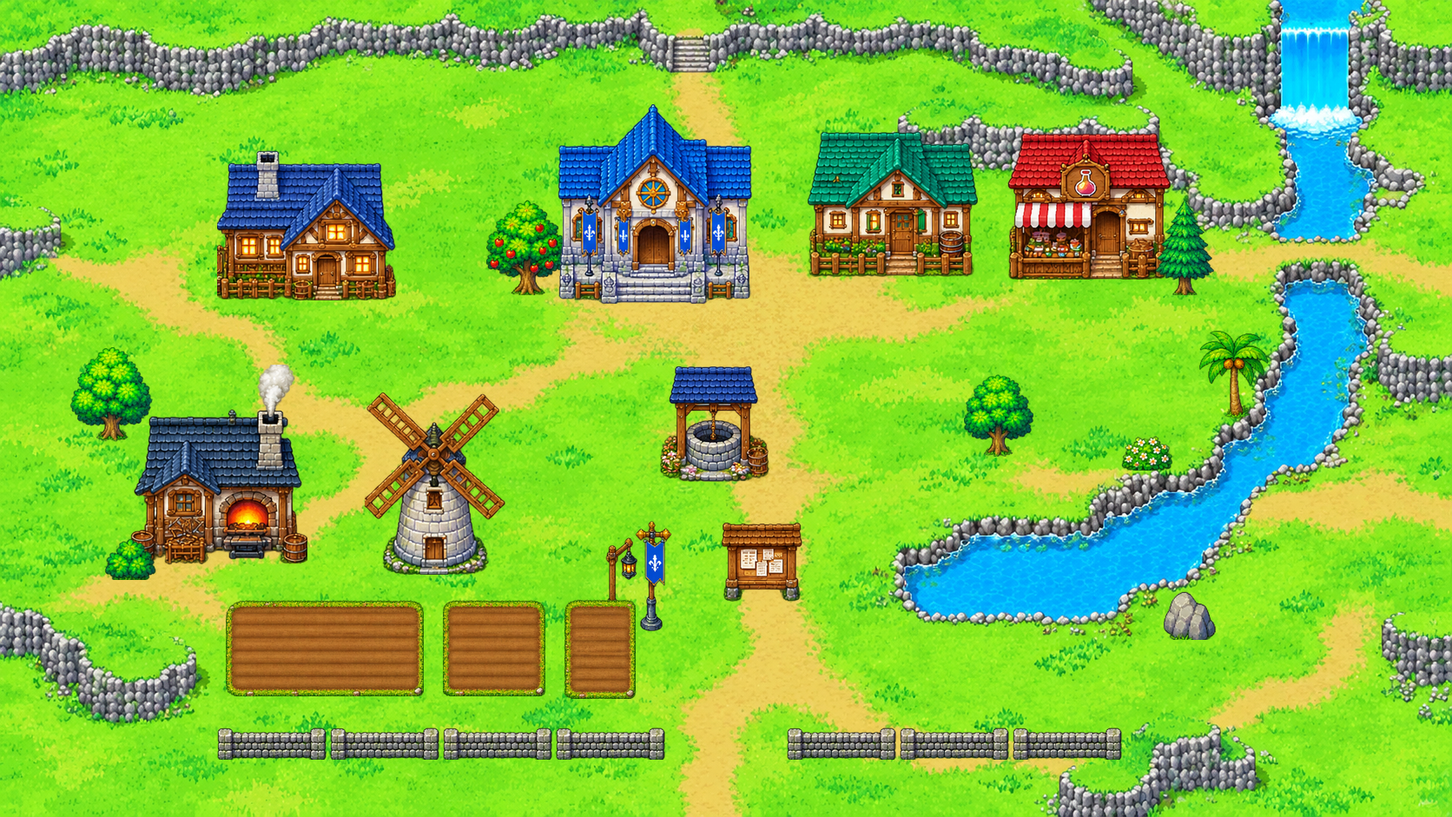
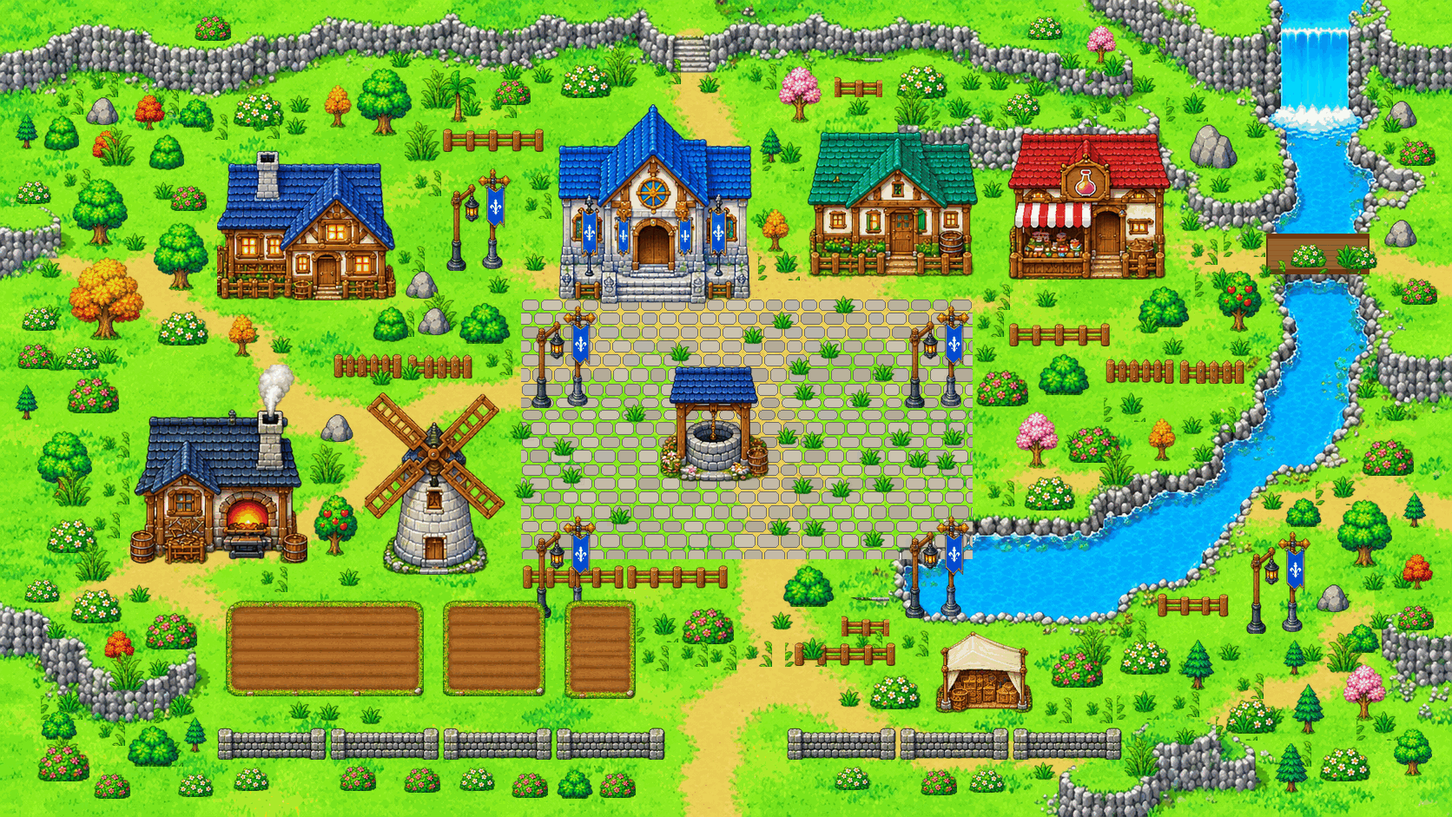
update »

diff --git a/data.py b/data.py
@@ -135,7 +135,7 @@ MONSTERS = [
 BOSS_NEAR, BOSS_FAR = 'Raja Slime', 'Vampir'
 
 # v1.4: desa dibangun ulang (dari aset tanah, bangunan, pohon & lahan). Dibuat otomatis oleh gen_town.py.
-TOWN = {'cell': 8, 'cw': 210, 'ch': 118, 'W': 1672, 'H': 941, 'rows': [[0, 0, 208], [1, 0, 208], [2, 0, 1], [2, 47, 48], [2, 63, 65], [2, 77, 81], [2, 87, 93], [2, 107, 107], [2, 116, 118], [2, 129, 130], [2, 159, 172], [2, 183, 199], [2, 207, 208], [3, 0, 1], [3, 11, 15], [3, 45, 58], [3, 61, 68], [3, 76, 93], [3, 105, 120], [3, 127, 133], [3, 135, 135], [3, 137, 138], [3, 162, 172], [3, 182, 199], [3, 207, 208], [4, 0, 1], [4, 9, 21], [4, 44, 95], [4, 102, 140], [4, 162, 174], [4, 180, 200], [4, 207, 208], [5, 0, 1], [5, 7, 21], [5, 35, 140], [5, 164, 200], [5, 207, 208], [6, 0, 1], [6, 6, 23], [6, 25, 25], [6, 27, 27], [6, 33, 88], [6, 91, 141], [6, 144, 145], [6, 164, 208], [7, 0, 81], [7, 92, 106], [7, 108, 129], [7, 131, 131], [7, 134, 152], [7, 166, 208], [8, 0, 45], [8, 52, 52], [8, 59, 59], [8, 63, 67], [8, 69, 79], [8, 90, 104], [8, 109, 112], [8, 115, 116], [8, 137, 153], [8, 162, 162], [8, 168, 208], [9, 0, 44], [9, 67, 76], [9, 91, 91], [9, 94, 104], [9, 140, 155], [9, 161, 162], [9, 169, 208], [10, 0, 9], [10, 11, 11], [10, 15, 16], [10, 18, 39], [10, 42, 43], [10, 71, 71], [10, 96, 102], [10, 141, 162], [10, 171, 208], [11, 0, 9], [11, 18, 19], [11, 21, 39], [11, 147, 162], [11, 172, 196], [11, 199, 208], [12, 0, 5], [12, 20, 34], [12, 37, 37], [12, 152, 163], [12, 172, 196], [12, 200, 208], [13, 0, 1], [13, 4, 5], [13, 7, 7], [13, 27, 31], [13, 152, 162], [13, 176, 177], [13, 180, 196], [13, 204, 204], [13, 207, 208], [14, 0, 1], [14, 161, 161], [14, 178, 197], [14, 207, 208], [15, 0, 1], [15, 164, 164], [15, 180, 198], [15, 207, 208], [16, 0, 1], [16, 129, 130], [16, 139, 140], [16, 164, 166], [16, 180, 189], [16, 191, 192], [16, 194, 198], [16, 207, 208], [17, 0, 1], [17, 129, 130], [17, 138, 141], [17, 155, 158], [17, 165, 166], [17, 181, 197], [17, 207, 208], [18, 0, 1], [18, 129, 149], [18, 151, 159], [18, 161, 166], [18, 182, 196], [18, 207, 208], [19, 0, 1], [19, 128, 166], [19, 184, 195], [19, 207, 208], [20, 0, 1], [20, 127, 127], [20, 130, 166], [20, 184, 195], [20, 207, 208], [21, 0, 1], [21, 129, 129], [21, 131, 168], [21, 184, 197], [21, 207, 208], [22, 0, 1], [22, 137, 151], [22, 155, 168], [22, 184, 199], [22, 207, 208], [23, 0, 1], [23, 137, 148], [23, 155, 168], [23, 184, 200], [23, 207, 208], [24, 0, 1], [24, 140, 146], [24, 165, 170], [24, 184, 204], [24, 207, 208], [25, 0, 1], [25, 167, 172], [25, 185, 204], [25, 207, 208], [26, 0, 1], [26, 167, 171], [26, 185, 204], [26, 207, 208], [27, 0, 1], [27, 167, 167], [27, 169, 169], [27, 171, 172], [27, 182, 203], [27, 207, 208], [28, 0, 1], [28, 171, 175], [28, 181, 203], [28, 207, 208], [29, 0, 1], [29, 117, 139], [29, 146, 166], [29, 170, 202], [29, 207, 208], [30, 0, 1], [30, 6, 6], [30, 81, 106], [30, 117, 139], [30, 146, 166], [30, 171, 198], [30, 207, 208], [31, 0, 1], [31, 8, 8], [31, 81, 106], [31, 117, 139], [31, 146, 166], [31, 172, 198], [31, 207, 208], [32, 0, 1], [32, 6, 8], [32, 32, 55], [32, 81, 106], [32, 117, 139], [32, 146, 166], [32, 172, 197], [32, 207, 208], [33, 0, 8], [33, 32, 55], [33, 81, 106], [33, 117, 139], [33, 146, 166], [33, 179, 179], [33, 181, 196], [33, 207, 208], [34, 0, 8], [34, 32, 55], [34, 81, 106], [34, 117, 139], [34, 146, 166], [34, 183, 195], [34, 207, 208], [35, 0, 8], [35, 32, 55], [35, 81, 106], [35, 117, 139], [35, 146, 166], [35, 207, 208], [36, 0, 8], [36, 32, 55], [36, 81, 106], [36, 117, 139], [36, 146, 166], [36, 207, 208], [37, 0, 5], [37, 7, 7], [37, 32, 55], [37, 81, 106], [37, 117, 139], [37, 146, 166], [37, 186, 192], [37, 207, 208], [38, 0, 3], [38, 5, 6], [38, 32, 55], [38, 81, 106], [38, 117, 139], [38, 146, 166], [38, 184, 195], [38, 207, 208], [39, 0, 1], [39, 32, 55], [39, 81, 106], [39, 117, 139], [39, 146, 166], [39, 183, 195], [39, 207, 208], [40, 0, 1], [40, 32, 55], [40, 74, 77], [40, 81, 106], [40, 117, 126], [40, 132, 139], [40, 146, 156], [40, 161, 166], [40, 169, 171], [40, 183, 196], [40, 207, 208], [41, 0, 1], [41, 32, 55], [41, 74, 77], [41, 81, 106], [41, 169, 171], [41, 183, 196], [41, 207, 208], [42, 0, 1], [42, 32, 55], [42, 74, 77], [42, 81, 106], [42, 169, 171], [42, 183, 197], [42, 207, 208], [43, 0, 1], [43, 32, 44], [43, 50, 55], [43, 81, 106], [43, 183, 198], [43, 207, 208], [44, 0, 1], [44, 184, 198], [44, 207, 208], [45, 0, 1], [45, 184, 199], [45, 207, 208], [46, 0, 1], [46, 184, 198], [46, 207, 208], [47, 0, 1], [47, 184, 201], [47, 207, 208], [48, 0, 1], [48, 185, 200], [48, 207, 208], [49, 0, 1], [49, 184, 199], [49, 207, 208], [50, 0, 1], [50, 183, 200], [50, 207, 208], [51, 0, 1], [51, 183, 208], [52, 0, 1], [52, 182, 195], [52, 197, 208], [53, 0, 1], [53, 182, 196], [53, 198, 208], [54, 0, 1], [54, 181, 195], [54, 198, 208], [55, 0, 1], [55, 180, 195], [55, 198, 208], [56, 0, 1], [56, 180, 195], [56, 199, 208], [57, 0, 1], [57, 180, 195], [57, 201, 208], [58, 0, 1], [58, 176, 196], [58, 200, 201], [58, 207, 208], [59, 0, 1], [59, 176, 196], [59, 207, 208], [60, 0, 1], [60, 97, 108], [60, 176, 195], [60, 207, 208], [61, 0, 1], [61, 14, 17], [61, 97, 108], [61, 175, 195], [61, 207, 208], [62, 0, 1], [62, 14, 17], [62, 97, 108], [62, 175, 193], [62, 195, 195], [62, 207, 208], [63, 0, 1], [63, 14, 17], [63, 97, 108], [63, 142, 144], [63, 174, 192], [63, 207, 208], [64, 0, 1], [64, 97, 108], [64, 142, 144], [64, 174, 192], [64, 207, 208], [65, 0, 1], [65, 97, 108], [65, 142, 144], [65, 161, 169], [65, 174, 192], [65, 207, 208], [66, 0, 1], [66, 97, 108], [66, 161, 169], [66, 173, 193], [66, 207, 208], [67, 0, 1], [67, 20, 42], [67, 97, 108], [67, 161, 169], [67, 171, 189], [67, 191, 191], [67, 207, 208], [68, 0, 1], [68, 20, 42], [68, 97, 108], [68, 161, 185], [68, 207, 208], [69, 0, 1], [69, 20, 42], [69, 97, 108], [69, 161, 183], [69, 207, 208], [70, 0, 1], [70, 20, 42], [70, 53, 71], [70, 159, 182], [70, 207, 208], [71, 0, 1], [71, 20, 42], [71, 53, 71], [71, 157, 180], [71, 207, 208], [72, 0, 1], [72, 20, 42], [72, 53, 71], [72, 157, 180], [72, 207, 208], [73, 0, 1], [73, 20, 42], [73, 53, 71], [73, 157, 179], [73, 207, 208], [74, 0, 1], [74, 20, 42], [74, 53, 71], [74, 136, 136], [74, 139, 139], [74, 141, 147], [74, 149, 152], [74, 156, 179], [74, 207, 208], [75, 0, 1], [75, 20, 42], [75, 53, 71], [75, 136, 179], [75, 207, 208], [76, 0, 1], [76, 20, 42], [76, 53, 71], [76, 137, 178], [76, 207, 208], [77, 0, 1], [77, 20, 42], [77, 53, 71], [77, 134, 177], [77, 207, 208], [78, 0, 1], [78, 20, 42], [78, 53, 71], [78, 133, 176], [78, 207, 208], [79, 0, 1], [79, 20, 42], [79, 53, 71], [79, 129, 175], [79, 207, 208], [80, 0, 1], [80, 15, 42], [80, 53, 71], [80, 105, 113], [80, 128, 175], [80, 207, 208], [81, 0, 1], [81, 15, 23], [81, 29, 42], [81, 53, 71], [81, 105, 113], [81, 129, 174], [81, 207, 208], [82, 0, 1], [82, 15, 22], [82, 53, 71], [82, 105, 113], [82, 129, 172], [82, 174, 174], [82, 207, 208], [83, 0, 1], [83, 15, 22], [83, 105, 113], [83, 129, 172], [83, 207, 208], [84, 0, 1], [84, 105, 113], [84, 129, 170], [84, 207, 208], [85, 0, 1], [85, 105, 113], [85, 128, 163], [85, 207, 208], [86, 0, 1], [86, 105, 113], [86, 129, 162], [86, 207, 208], [87, 0, 1], [87, 3, 4], [87, 90, 92], [87, 130, 162], [87, 207, 208], [88, 0, 6], [88, 90, 92], [88, 131, 161], [88, 167, 174], [88, 207, 208], [89, 0, 7], [89, 90, 92], [89, 132, 160], [89, 167, 174], [89, 199, 200], [89, 207, 208], [90, 0, 7], [90, 90, 92], [90, 151, 151], [90, 154, 155], [90, 167, 174], [90, 199, 200], [90, 207, 208], [91, 0, 10], [91, 90, 92], [91, 167, 174], [91, 199, 208], [92, 0, 11], [92, 199, 208], [93, 0, 12], [93, 199, 208], [94, 0, 11], [94, 27, 28], [94, 199, 208], [95, 0, 1], [95, 5, 13], [95, 24, 28], [95, 200, 208], [96, 0, 1], [96, 6, 14], [96, 23, 28], [96, 200, 208], [97, 0, 1], [97, 6, 17], [97, 20, 28], [97, 200, 208], [98, 0, 1], [98, 8, 27], [98, 201, 208], [99, 0, 1], [99, 8, 27], [99, 201, 203], [99, 206, 208], [100, 0, 1], [100, 7, 26], [100, 202, 202], [100, 206, 208], [101, 0, 1], [101, 11, 24], [101, 26, 26], [101, 205, 205], [101, 207, 208], [102, 0, 1], [102, 13, 23], [102, 204, 205], [102, 207, 208], [103, 0, 1], [103, 14, 22], [103, 96, 99], [103, 110, 113], [103, 207, 208], [104, 0, 1], [104, 96, 98], [104, 111, 113], [104, 164, 164], [104, 174, 175], [104, 207, 208], [105, 0, 1], [105, 31, 98], [105, 111, 161], [105, 163, 164], [105, 174, 175], [105, 207, 208], [106, 0, 1], [106, 31, 98], [106, 111, 161], [106, 167, 167], [106, 169, 175], [106, 177, 178], [106, 207, 208], [107, 0, 1], [107, 31, 98], [107, 111, 161], [107, 166, 175], [107, 179, 180], [107, 207, 208], [108, 0, 1], [108, 31, 98], [108, 111, 161], [108, 166, 175], [108, 179, 182], [108, 207, 208], [109, 0, 1], [109, 31, 98], [109, 111, 161], [109, 165, 180], [109, 207, 208], [110, 0, 1], [110, 154, 154], [110, 165, 180], [110, 207, 208], [111, 0, 1], [111, 152, 153], [111, 165, 180], [111, 207, 208], [112, 0, 1], [112, 152, 154], [112, 164, 180], [112, 207, 208], [113, 0, 1], [113, 152, 156], [113, 162, 180], [113, 207, 208], [114, 0, 1], [114, 150, 168], [114, 207, 208], [115, 0, 208], [116, 0, 208], [117, 0, 208]], 'spawn': (800, 590), 'gate': (797, 833, 85, 52), 'gate_out': (839, 751), 'gate_over': (773, 787), 'plots': [((276, 704, 196, 84), 4, 2), ((526, 704, 86, 84), 2, 2), ((666, 704, 50, 87), 2, 2)], 'npc': {'Sir Aldric': (830, 380), 'Mira': (600, 560), 'Cale si Pedagang': (1000, 420), 'Anya': (640, 500), 'Fenn si Pemanah': (1040, 470), 'Kesatria Ines': (1000, 350), 'Madam Ruby': (930, 500), 'Penyihir Selene': (700, 450), 'Kakek Odo': (880, 636), 'Penjaga Gerbang': (840, 770), 'Putri Elara': (900, 380), 'Lars si Petani': (700, 655)}}
+TOWN = {'cell': 8, 'cw': 210, 'ch': 118, 'W': 1672, 'H': 941, 'rows': [[0, 0, 208], [1, 0, 208], [2, 0, 1], [2, 28, 33], [2, 47, 48], [2, 63, 65], [2, 77, 81], [2, 87, 93], [2, 107, 107], [2, 116, 118], [2, 129, 130], [2, 147, 153], [2, 159, 172], [2, 183, 199], [2, 207, 208], [3, 0, 1], [3, 11, 15], [3, 28, 33], [3, 45, 58], [3, 61, 68], [3, 76, 93], [3, 105, 120], [3, 127, 133], [3, 135, 135], [3, 137, 138], [3, 147, 153], [3, 156, 160], [3, 162, 172], [3, 182, 199], [3, 207, 208], [4, 0, 1], [4, 9, 21], [4, 28, 33], [4, 44, 95], [4, 102, 140], [4, 147, 153], [4, 156, 160], [4, 162, 174], [4, 180, 200], [4, 207, 208], [5, 0, 1], [5, 7, 21], [5, 28, 33], [5, 35, 140], [5, 147, 153], [5, 156, 160], [5, 164, 200], [5, 207, 208], [6, 0, 1], [6, 6, 23], [6, 25, 25], [6, 27, 27], [6, 33, 88], [6, 91, 141], [6, 144, 145], [6, 156, 160], [6, 164, 208], [7, 0, 81], [7, 92, 106], [7, 108, 129], [7, 131, 131], [7, 134, 152], [7, 156, 160], [7, 166, 208], [8, 0, 45], [8, 52, 52], [8, 59, 59], [8, 63, 67], [8, 69, 88], [8, 90, 104], [8, 109, 112], [8, 115, 116], [8, 120, 126], [8, 137, 153], [8, 156, 160], [8, 162, 162], [8, 168, 208], [9, 0, 44], [9, 51, 59], [9, 67, 76], [9, 80, 88], [9, 91, 91], [9, 94, 104], [9, 111, 118], [9, 120, 126], [9, 128, 136], [9, 140, 162], [9, 169, 208], [10, 0, 9], [10, 11, 11], [10, 15, 16], [10, 18, 39], [10, 42, 43], [10, 51, 59], [10, 63, 68], [10, 71, 71], [10, 80, 88], [10, 96, 102], [10, 111, 118], [10, 120, 126], [10, 128, 136], [10, 141, 162], [10, 171, 208], [11, 0, 9], [11, 18, 19], [11, 21, 39], [11, 51, 59], [11, 63, 68], [11, 71, 76], [11, 80, 88], [11, 111, 118], [11, 120, 126], [11, 128, 136], [11, 147, 162], [11, 172, 196], [11, 199, 208], [12, 0, 5], [12, 20, 34], [12, 37, 37], [12, 46, 59], [12, 63, 68], [12, 71, 76], [12, 80, 88], [12, 111, 118], [12, 120, 126], [12, 128, 136], [12, 152, 163], [12, 172, 196], [12, 200, 208], [13, 0, 1], [13, 4, 5], [13, 7, 7], [13, 12, 17], [13, 19, 23], [13, 27, 31], [13, 33, 41], [13, 46, 59], [13, 63, 68], [13, 71, 76], [13, 80, 88], [13, 111, 118], [13, 120, 126], [13, 128, 136], [13, 144, 149], [13, 152, 162], [13, 176, 177], [13, 180, 196], [13, 204, 204], [13, 207, 208], [14, 0, 1], [14, 12, 17], [14, 19, 23], [14, 25, 30], [14, 33, 41], [14, 46, 59], [14, 63, 68], [14, 71, 76], [14, 80, 88], [14, 111, 118], [14, 128, 136], [14, 144, 149], [14, 161, 161], [14, 178, 197], [14, 199, 203], [14, 207, 208], [15, 0, 1], [15, 12, 17], [15, 19, 23], [15, 25, 30], [15, 33, 41], [15, 46, 59], [15, 63, 68], [15, 71, 76], [15, 80, 108], [15, 111, 118], [15, 144, 149], [15, 164, 164], [15, 180, 203], [15, 207, 208], [16, 0, 17], [16, 19, 23], [16, 25, 30], [16, 33, 41], [16, 46, 59], [16, 63, 68], [16, 80, 108], [16, 111, 118], [16, 129, 130], [16, 139, 140], [16, 144, 149], [16, 164, 166], [16, 180, 189], [16, 191, 192], [16, 194, 203], [16, 207, 208], [17, 0, 17], [17, 19, 23], [17, 25, 30], [17, 33, 41], [17, 46, 59], [17, 63, 68], [17, 80, 108], [17, 111, 118], [17, 129, 130], [17, 138, 141], [17, 155, 158], [17, 165, 166], [17, 171, 178], [17, 181, 197], [17, 199, 203], [17, 207, 208], [18, 0, 11], [18, 13, 17], [18, 19, 23], [18, 25, 30], [18, 33, 41], [18, 46, 59], [18, 63, 78], [18, 80, 112], [18, 116, 168], [18, 171, 178], [18, 182, 196], [18, 199, 203], [18, 207, 208], [19, 0, 11], [19, 13, 17], [19, 21, 26], [19, 51, 59], [19, 63, 78], [19, 80, 112], [19, 116, 168], [19, 171, 178], [19, 184, 195], [19, 207, 208], [20, 0, 11], [20, 13, 17], [20, 21, 26], [20, 63, 78], [20, 80, 112], [20, 116, 168], [20, 171, 178], [20, 184, 195], [20, 201, 208], [21, 0, 11], [21, 13, 17], [21, 21, 26], [21, 31, 56], [21, 63, 78], [21, 80, 112], [21, 116, 168], [21, 171, 178], [21, 184, 197], [21, 201, 208], [22, 0, 1], [22, 13, 17], [22, 21, 26], [22, 31, 56], [22, 80, 112], [22, 116, 168], [22, 171, 178], [22, 184, 199], [22, 201, 208], [23, 0, 1], [23, 13, 17], [23, 21, 26], [23, 31, 56], [23, 80, 112], [23, 116, 168], [23, 171, 178], [23, 184, 208], [24, 0, 1], [24, 21, 26], [24, 31, 56], [24, 64, 73], [24, 80, 108], [24, 116, 178], [24, 184, 204], [24, 207, 208], [25, 0, 7], [25, 10, 18], [25, 31, 56], [25, 64, 73], [25, 80, 108], [25, 116, 140], [25, 145, 172], [25, 185, 204], [25, 207, 208], [26, 0, 7], [26, 10, 18], [26, 24, 29], [26, 31, 56], [26, 64, 73], [26, 80, 108], [26, 116, 140], [26, 145, 171], [26, 185, 204], [26, 207, 208], [27, 0, 7], [27, 10, 18], [27, 24, 29], [27, 31, 56], [27, 64, 73], [27, 80, 108], [27, 116, 140], [27, 145, 169], [27, 171, 172], [27, 182, 203], [27, 207, 208], [28, 0, 7], [28, 10, 18], [28, 24, 29], [28, 31, 56], [28, 64, 73], [28, 80, 108], [28, 116, 140], [28, 145, 168], [28, 171, 175], [28, 181, 203], [28, 207, 208], [29, 0, 7], [29, 10, 18], [29, 24, 29], [29, 31, 56], [29, 64, 73], [29, 80, 108], [29, 116, 140], [29, 145, 168], [29, 170, 202], [29, 207, 208], [30, 0, 1], [30, 6, 6], [30, 10, 18], [30, 24, 29], [30, 31, 56], [30, 64, 73], [30, 80, 113], [30, 116, 140], [30, 145, 168], [30, 171, 198], [30, 207, 208], [31, 0, 1], [31, 8, 8], [31, 10, 18], [31, 22, 29], [31, 31, 56], [31, 64, 73], [31, 80, 113], [31, 116, 140], [31, 145, 168], [31, 172, 203], [31, 207, 208], [32, 0, 1], [32, 6, 8], [32, 10, 18], [32, 22, 29], [32, 31, 56], [32, 64, 73], [32, 80, 113], [32, 116, 140], [32, 145, 168], [32, 172, 197], [32, 199, 203], [32, 207, 208], [33, 0, 8], [33, 10, 18], [33, 22, 29], [33, 31, 56], [33, 64, 73], [33, 80, 113], [33, 116, 140], [33, 145, 168], [33, 179, 179], [33, 181, 196], [33, 199, 203], [33, 207, 208], [34, 0, 8], [34, 10, 18], [34, 22, 29], [34, 31, 56], [34, 64, 73], [34, 80, 113], [34, 116, 140], [34, 145, 168], [34, 185, 191], [34, 199, 203], [34, 207, 208], [35, 0, 8], [35, 10, 18], [35, 22, 29], [35, 31, 56], [35, 64, 73], [35, 80, 113], [35, 116, 140], [35, 145, 168], [35, 185, 191], [35, 193, 203], [35, 207, 208], [36, 0, 8], [36, 22, 29], [36, 31, 56], [36, 64, 73], [36, 80, 113], [36, 116, 140], [36, 145, 168], [36, 185, 191], [36, 193, 198], [36, 207, 208], [37, 0, 5], [37, 7, 7], [37, 9, 20], [37, 22, 29], [37, 31, 56], [37, 64, 73], [37, 80, 108], [37, 116, 140], [37, 145, 168], [37, 185, 191], [37, 193, 198], [37, 207, 208], [38, 0, 3], [38, 5, 6], [38, 9, 20], [38, 22, 29], [38, 31, 56], [38, 58, 73], [38, 80, 108], [38, 116, 140], [38, 145, 168], [38, 185, 191], [38, 193, 198], [38, 207, 208], [39, 0, 1], [39, 9, 20], [39, 22, 29], [39, 31, 56], [39, 58, 63], [39, 80, 108], [39, 116, 140], [39, 145, 168], [39, 175, 181], [39, 207, 208], [40, 0, 1], [40, 9, 20], [40, 22, 29], [40, 31, 56], [40, 58, 63], [40, 80, 108], [40, 116, 126], [40, 132, 140], [40, 145, 156], [40, 161, 168], [40, 175, 181], [40, 183, 196], [40, 201, 208], [41, 0, 1], [41, 9, 20], [41, 22, 29], [41, 31, 56], [41, 58, 63], [41, 80, 108], [41, 163, 171], [41, 175, 181], [41, 183, 196], [41, 201, 208], [42, 0, 1], [42, 9, 20], [42, 31, 56], [42, 58, 63], [42, 80, 108], [42, 163, 171], [42, 175, 181], [42, 183, 197], [42, 201, 208], [43, 0, 1], [43, 9, 20], [43, 31, 44], [43, 50, 56], [43, 66, 73], [43, 80, 108], [43, 163, 171], [43, 175, 181], [43, 183, 198], [43, 201, 208], [44, 0, 1], [44, 3, 20], [44, 22, 30], [44, 53, 58], [44, 60, 64], [44, 66, 73], [44, 163, 171], [44, 175, 181], [44, 184, 198], [44, 207, 208], [45, 0, 1], [45, 3, 20], [45, 22, 30], [45, 32, 36], [45, 53, 58], [45, 60, 64], [45, 66, 73], [45, 163, 171], [45, 175, 181], [45, 184, 199], [45, 207, 208], [46, 0, 1], [46, 3, 20], [46, 22, 30], [46, 32, 36], [46, 53, 58], [46, 60, 64], [46, 66, 73], [46, 145, 159], [46, 163, 171], [46, 175, 181], [46, 184, 198], [46, 207, 208], [47, 0, 1], [47, 3, 20], [47, 22, 30], [47, 32, 36], [47, 53, 58], [47, 60, 64], [47, 66, 73], [47, 145, 159], [47, 163, 171], [47, 175, 181], [47, 184, 201], [47, 207, 208], [48, 0, 1], [48, 9, 20], [48, 22, 30], [48, 32, 36], [48, 53, 58], [48, 60, 64], [48, 66, 73], [48, 145, 159], [48, 185, 200], [48, 207, 208], [49, 0, 7], [49, 9, 14], [49, 22, 30], [49, 32, 36], [49, 53, 58], [49, 66, 73], [49, 145, 159], [49, 184, 199], [49, 207, 208], [50, 0, 7], [50, 9, 14], [50, 32, 36], [50, 48, 67], [50, 149, 156], [50, 183, 200], [50, 207, 208], [51, 0, 7], [51, 9, 14], [51, 32, 36], [51, 48, 67], [51, 149, 156], [51, 159, 179], [51, 183, 208], [52, 0, 7], [52, 9, 14], [52, 18, 44], [52, 48, 67], [52, 95, 110], [52, 149, 156], [52, 159, 179], [52, 182, 195], [52, 197, 208], [53, 0, 7], [53, 9, 14], [53, 18, 44], [53, 48, 67], [53, 95, 110], [53, 140, 147], [53, 149, 156], [53, 159, 179], [53, 182, 196], [53, 198, 208], [54, 0, 1], [54, 9, 44], [54, 48, 67], [54, 95, 110], [54, 140, 147], [54, 149, 156], [54, 159, 179], [54, 181, 195], [54, 198, 208], [55, 0, 5], [55, 9, 44], [55, 95, 110], [55, 140, 147], [55, 149, 156], [55, 159, 195], [55, 198, 208], [56, 0, 5], [56, 9, 44], [56, 52, 72], [56, 95, 110], [56, 140, 147], [56, 149, 156], [56, 180, 195], [56, 199, 208], [57, 0, 5], [57, 9, 44], [57, 52, 72], [57, 95, 110], [57, 140, 147], [57, 180, 195], [57, 201, 208], [58, 0, 5], [58, 9, 44], [58, 52, 72], [58, 95, 110], [58, 140, 147], [58, 179, 196], [58, 200, 201], [58, 207, 208], [59, 0, 5], [59, 9, 44], [59, 46, 50], [59, 52, 72], [59, 95, 110], [59, 146, 152], [59, 178, 196], [59, 207, 208], [60, 0, 5], [60, 18, 44], [60, 46, 50], [60, 52, 72], [60, 95, 110], [60, 146, 152], [60, 165, 169], [60, 178, 195], [60, 207, 208], [61, 0, 1], [61, 5, 13], [61, 18, 44], [61, 46, 50], [61, 52, 72], [61, 95, 110], [61, 146, 161], [61, 165, 169], [61, 175, 195], [61, 207, 208], [62, 0, 1], [62, 5, 13], [62, 18, 44], [62, 46, 50], [62, 52, 72], [62, 95, 110], [62, 146, 161], [62, 165, 169], [62, 175, 193], [62, 195, 195], [62, 207, 208], [63, 0, 1], [63, 5, 13], [63, 18, 44], [63, 46, 50], [63, 52, 72], [63, 95, 110], [63, 146, 161], [63, 165, 169], [63, 174, 192], [63, 196, 203], [63, 207, 208], [64, 0, 1], [64, 5, 13], [64, 18, 44], [64, 52, 72], [64, 95, 110], [64, 146, 161], [64, 165, 169], [64, 174, 192], [64, 196, 203], [64, 207, 208], [65, 0, 1], [65, 5, 13], [65, 18, 44], [65, 52, 72], [65, 95, 110], [65, 146, 161], [65, 165, 169], [65, 174, 192], [65, 196, 203], [65, 207, 208], [66, 0, 1], [66, 5, 13], [66, 18, 44], [66, 52, 72], [66, 95, 110], [66, 146, 161], [66, 165, 169], [66, 173, 193], [66, 196, 203], [66, 207, 208], [67, 0, 1], [67, 5, 13], [67, 18, 44], [67, 52, 72], [67, 95, 110], [67, 146, 152], [67, 165, 166], [67, 171, 189], [67, 191, 191], [67, 196, 203], [67, 207, 208], [68, 0, 1], [68, 5, 13], [68, 18, 44], [68, 52, 72], [68, 95, 110], [68, 147, 155], [68, 161, 185], [68, 196, 203], [68, 207, 208], [69, 0, 1], [69, 5, 13], [69, 18, 44], [69, 52, 72], [69, 95, 110], [69, 147, 155], [69, 161, 183], [69, 207, 208], [70, 0, 1], [70, 5, 13], [70, 18, 44], [70, 52, 72], [70, 147, 155], [70, 159, 182], [70, 201, 205], [70, 207, 208], [71, 0, 1], [71, 5, 13], [71, 18, 72], [71, 147, 155], [71, 157, 180], [71, 185, 190], [71, 192, 205], [71, 207, 208], [72, 0, 1], [72, 18, 72], [72, 147, 155], [72, 157, 180], [72, 185, 190], [72, 192, 205], [72, 207, 208], [73, 0, 1], [73, 18, 72], [73, 147, 155], [73, 157, 179], [73, 185, 190], [73, 192, 205], [73, 207, 208], [74, 0, 1], [74, 6, 14], [74, 18, 72], [74, 136, 136], [74, 139, 139], [74, 141, 147], [74, 149, 152], [74, 156, 179], [74, 185, 190], [74, 192, 205], [74, 207, 208], [75, 0, 1], [75, 6, 14], [75, 18, 72], [75, 136, 179], [75, 185, 190], [75, 192, 205], [75, 207, 208], [76, 0, 1], [76, 6, 14], [76, 18, 72], [76, 137, 188], [76, 192, 200], [76, 207, 208], [77, 0, 1], [77, 6, 14], [77, 18, 72], [77, 134, 177], [77, 179, 188], [77, 192, 200], [77, 207, 208], [78, 0, 1], [78, 6, 14], [78, 18, 72], [78, 133, 176], [78, 179, 188], [78, 192, 200], [78, 207, 208], [79, 0, 1], [79, 6, 14], [79, 18, 72], [79, 129, 175], [79, 179, 188], [79, 192, 208], [80, 0, 1], [80, 18, 72], [80, 128, 175], [80, 179, 188], [80, 192, 208], [81, 0, 1], [81, 18, 23], [81, 29, 44], [81, 52, 72], [81, 112, 120], [81, 129, 174], [81, 179, 188], [81, 192, 208], [82, 0, 1], [82, 52, 72], [82, 112, 120], [82, 129, 172], [82, 174, 174], [82, 179, 188], [82, 201, 208], [83, 0, 1], [83, 3, 8], [83, 112, 120], [83, 129, 172], [83, 179, 188], [83, 201, 208], [84, 0, 1], [84, 3, 8], [84, 10, 17], [84, 112, 120], [84, 129, 170], [84, 179, 194], [84, 201, 208], [85, 0, 1], [85, 3, 8], [85, 10, 17], [85, 112, 120], [85, 128, 163], [85, 166, 176], [85, 179, 194], [85, 207, 208], [86, 0, 1], [86, 3, 8], [86, 10, 17], [86, 112, 127], [86, 129, 162], [86, 166, 176], [86, 179, 194], [86, 207, 208], [87, 0, 1], [87, 3, 4], [87, 10, 17], [87, 98, 105], [87, 112, 127], [87, 130, 162], [87, 166, 176], [87, 179, 194], [87, 201, 208], [88, 0, 6], [88, 10, 17], [88, 20, 28], [88, 98, 105], [88, 121, 127], [88, 131, 161], [88, 166, 176], [88, 179, 194], [88, 201, 208], [89, 0, 7], [89, 10, 17], [89, 20, 28], [89, 98, 105], [89, 121, 127], [89, 132, 160], [89, 179, 188], [89, 193, 208], [90, 0, 7], [90, 15, 28], [90, 98, 105], [90, 121, 127], [90, 134, 148], [90, 151, 151], [90, 154, 155], [90, 179, 188], [90, 193, 208], [91, 0, 10], [91, 15, 28], [91, 98, 105], [91, 121, 127], [91, 134, 148], [91, 161, 168], [91, 170, 174], [91, 179, 188], [91, 193, 208], [92, 0, 11], [92, 15, 28], [92, 98, 105], [92, 114, 129], [92, 134, 148], [92, 161, 168], [92, 170, 174], [92, 184, 187], [92, 193, 208], [93, 0, 12], [93, 15, 28], [93, 114, 129], [93, 134, 148], [93, 151, 158], [93, 161, 168], [93, 170, 174], [93, 184, 187], [93, 193, 208], [94, 0, 11], [94, 15, 19], [94, 27, 28], [94, 114, 129], [94, 134, 148], [94, 151, 158], [94, 161, 168], [94, 170, 174], [94, 184, 187], [94, 199, 208], [95, 0, 1], [95, 5, 13], [95, 15, 19], [95, 24, 28], [95, 114, 129], [95, 134, 148], [95, 151, 158], [95, 161, 168], [95, 170, 174], [95, 184, 187], [95, 193, 208], [96, 0, 1], [96, 6, 14], [96, 23, 28], [96, 125, 132], [96, 134, 148], [96, 151, 158], [96, 161, 168], [96, 170, 174], [96, 184, 187], [96, 193, 208], [97, 0, 1], [97, 6, 17], [97, 20, 28], [97, 125, 132], [97, 134, 148], [97, 151, 158], [97, 161, 168], [97, 170, 174], [97, 184, 187], [97, 193, 208], [98, 0, 1], [98, 8, 27], [98, 125, 132], [98, 134, 148], [98, 151, 158], [98, 170, 174], [98, 185, 190], [98, 193, 199], [98, 201, 208], [99, 0, 1], [99, 8, 27], [99, 125, 132], [99, 134, 148], [99, 170, 174], [99, 185, 190], [99, 193, 199], [99, 201, 203], [99, 206, 208], [100, 0, 1], [100, 7, 26], [100, 125, 132], [100, 134, 148], [100, 176, 190], [100, 193, 199], [100, 202, 202], [100, 206, 208], [101, 0, 1], [101, 11, 24], [101, 26, 26], [101, 125, 132], [101, 134, 148], [101, 176, 190], [101, 193, 199], [101, 205, 205], [101, 207, 208], [102, 0, 1], [102, 5, 11], [102, 13, 23], [102, 125, 132], [102, 134, 148], [102, 176, 190], [102, 193, 199], [102, 204, 205], [102, 207, 208], [103, 0, 1], [103, 5, 11], [103, 14, 22], [103, 26, 29], [103, 96, 99], [103, 110, 113], [103, 176, 190], [103, 193, 199], [103, 207, 208], [104, 0, 1], [104, 5, 11], [104, 18, 29], [104, 31, 99], [104, 110, 161], [104, 164, 164], [104, 174, 190], [104, 200, 208], [105, 0, 1], [105, 5, 11], [105, 18, 29], [105, 31, 99], [105, 110, 161], [105, 163, 164], [105, 174, 190], [105, 200, 208], [106, 0, 1], [106, 5, 11], [106, 18, 29], [106, 31, 99], [106, 110, 161], [106, 167, 167], [106, 169, 175], [106, 177, 178], [106, 200, 208], [107, 0, 1], [107, 5, 12], [107, 18, 29], [107, 31, 99], [107, 110, 161], [107, 166, 175], [107, 179, 180], [107, 183, 197], [107, 200, 208], [108, 0, 1], [108, 5, 12], [108, 18, 29], [108, 31, 99], [108, 110, 161], [108, 166, 175], [108, 179, 197], [108, 200, 208], [109, 0, 1], [109, 5, 12], [109, 18, 25], [109, 31, 99], [109, 110, 161], [109, 165, 180], [109, 183, 197], [109, 200, 208], [110, 0, 1], [110, 5, 12], [110, 18, 25], [110, 33, 38], [110, 48, 54], [110, 58, 63], [110, 66, 71], [110, 80, 85], [110, 120, 125], [110, 132, 137], [110, 139, 144], [110, 154, 154], [110, 165, 180], [110, 183, 197], [110, 200, 208], [111, 0, 1], [111, 5, 18], [111, 25, 30], [111, 33, 38], [111, 48, 54], [111, 58, 63], [111, 66, 71], [111, 73, 78], [111, 80, 91], [111, 120, 125], [111, 132, 137], [111, 139, 144], [111, 152, 153], [111, 165, 180], [111, 183, 197], [111, 200, 208], [112, 0, 1], [112, 5, 18], [112, 25, 30], [112, 33, 38], [112, 48, 54], [112, 58, 63], [112, 66, 71], [112, 73, 78], [112, 80, 91], [112, 120, 125], [112, 132, 137], [112, 139, 144], [112, 152, 154], [112, 164, 180], [112, 183, 197], [112, 207, 208], [113, 0, 1], [113, 13, 18], [113, 25, 30], [113, 33, 38], [113, 48, 54], [113, 58, 63], [113, 66, 71], [113, 73, 78], [113, 80, 91], [113, 120, 125], [113, 132, 137], [113, 139, 144], [113, 152, 156], [113, 162, 180], [113, 183, 188], [113, 207, 208], [114, 0, 1], [114, 13, 18], [114, 25, 30], [114, 58, 63], [114, 73, 78], [114, 80, 91], [114, 132, 137], [114, 139, 144], [114, 150, 168], [114, 183, 188], [114, 207, 208], [115, 0, 208], [116, 0, 208], [117, 0, 208]], 'spawn': (800, 590), 'gate': (797, 833, 85, 52), 'gate_out': (839, 751), 'gate_over': (773, 787), 'plots': [((276, 704, 196, 84), 4, 2), ((526, 704, 86, 84), 2, 2), ((666, 704, 50, 87), 2, 2)], 'npc': {'Sir Aldric': (830, 380), 'Mira': (600, 560), 'Cale si Pedagang': (1000, 420), 'Anya': (640, 500), 'Fenn si Pemanah': (1040, 470), 'Kesatria Ines': (1000, 350), 'Madam Ruby': (930, 500), 'Penyihir Selene': (700, 450), 'Kakek Odo': (880, 636), 'Penjaga Gerbang': (840, 770), 'Putri Elara': (900, 380), 'Lars si Petani': (700, 655)}}
 
 # benih untuk kebun desa
 SHOP_SEED = [('seed_wheat', 6), ('seed_cabbage', 8), ('seed_carrot', 7)]
@@ -153,23 +153,23 @@ DOORS = {
 # exit = pintu tembok di dinding bawah; lantai berhenti di tepi atas pintu (pintu tidak bisa diinjak).
 INTERIORS = {
     'inn': dict(crop=(0, 0, 402, 390), floor=[(24, 100, 354, 210)],
-                solid=[(290, 141, 77, 32), (162, 154, 52, 38), (34, 154, 55, 39), (98, 154, 50, 39), (230, 210, 38, 13), (40, 281, 88, 17), (300, 276, 65, 34), (140, 292, 69, 25), (24, 348, 69, 26), (300, 352, 40, 24)],
-                exit=(164, 310, 74, 80), spawn=(201, 290), npc=('Rosalind', 'n01', 'inn', (250, 258))),
+                solid=[(290, 104, 77, 69), (162, 108, 52, 84), (34, 108, 55, 85), (98, 108, 50, 85), (230, 196, 38, 27), (40, 262, 88, 36), (300, 236, 65, 74), (140, 262, 69, 55), (24, 318, 69, 56), (300, 324, 40, 52)],
+                exit=(164, 310, 74, 80), spawn=(225, 300), npc=('Rosalind', 'n01', 'inn', (250, 258))),
     'potion': dict(crop=(0, 0, 414, 392), floor=[(24, 100, 366, 212)],
-                solid=[(120, 121, 43, 14), (24, 141, 77, 32), (290, 146, 85, 36), (340, 182, 19, 11), (230, 245, 17, 11), (30, 250, 82, 30), (262, 280, 69, 25), (364, 300, 38, 23), (170, 318, 60, 16)],
-                exit=(170, 312, 74, 80), spawn=(207, 300), npc=('Penyihir Orn', 'n25', 'shop', (200, 188))),
+                solid=[(120, 104, 43, 31), (24, 104, 77, 69), (290, 102, 85, 80), (340, 170, 19, 23), (230, 232, 17, 24), (30, 214, 82, 66), (262, 250, 69, 55), (364, 274, 38, 49), (170, 300, 60, 34)],
+                exit=(170, 312, 74, 80), spawn=(239, 302), npc=('Penyihir Orn', 'n25', 'shop', (200, 188))),
     'smith': dict(crop=(0, 0, 400, 246), floor=[(24, 84, 352, 102)],
-                solid=[(300, 53, 46, 32), (24, 62, 65, 34), (250, 119, 28, 19), (118, 128, 48, 16), (340, 141, 20, 11), (362, 141, 20, 11), (150, 171, 50, 18), (40, 172, 43, 19)],
-                exit=(172, 186, 56, 60), spawn=(200, 169), npc=('Brom si Pandai Besi', 'n02', 'smith', (120, 150))),
+                solid=[(300, 14, 46, 71), (24, 22, 65, 74), (250, 96, 28, 42), (118, 110, 48, 34), (340, 128, 20, 24), (362, 128, 20, 24), (150, 150, 50, 39), (40, 150, 43, 41)],
+                exit=(172, 186, 56, 60), spawn=(212, 176), npc=('Brom si Pandai Besi', 'n02', 'smith', (120, 150))),
     'green': dict(crop=(0, 0, 400, 302), floor=[(24, 100, 352, 122)],
-                solid=[(262, 127, 28, 19), (300, 138, 69, 26), (24, 156, 50, 39), (124, 189, 17, 11), (224, 209, 14, 11), (24, 221, 40, 14), (150, 217, 74, 27), (340, 226, 38, 23)],
-                exit=(163, 222, 74, 80), spawn=(200, 210), npc=('Nenek Wren', 'n04', 'granny', (262, 192))),
+                solid=[(262, 104, 28, 42), (300, 108, 69, 56), (24, 110, 50, 85), (124, 176, 17, 24), (224, 196, 14, 24), (24, 206, 40, 29), (150, 186, 74, 58), (340, 200, 38, 49)],
+                exit=(163, 222, 74, 80), spawn=(200, 184), npc=('Nenek Wren', 'n04', 'granny', (262, 192))),
     'church': dict(crop=(0, 0, 560, 430), floor=[(24, 124, 512, 206)],
-                solid=[(26, 48, 81, 22), (480, 48, 81, 22), (30, 162, 72, 19), (400, 162, 72, 19), (230, 178, 94, 40), (60, 262, 78, 30), (360, 262, 78, 30), (180, 327, 31, 23), (360, 327, 31, 23), (40, 331, 45, 27), (470, 331, 45, 27), (230, 335, 82, 30)],
-                exit=(234, 330, 92, 100), spawn=(280, 318), npc=('Pendeta Elias', 'n10', 'priest', (280, 262))),
+                solid=[(26, 22, 81, 48), (480, 22, 81, 48), (30, 140, 72, 41), (400, 140, 72, 41), (230, 130, 94, 88), (60, 226, 78, 66), (360, 226, 78, 66), (180, 300, 31, 50), (360, 300, 31, 50), (40, 300, 45, 58), (470, 300, 45, 58), (230, 300, 82, 65)],
+                exit=(234, 330, 92, 100), spawn=(280, 298), npc=('Pendeta Elias', 'n10', 'priest', (280, 262))),
     'windmill': dict(crop=(0, 0, 420, 300), floor=[(24, 124, 372, 96)],
-                solid=[(120, 140, 65, 17), (26, 145, 30, 22), (340, 145, 30, 22), (60, 207, 43, 14), (270, 199, 62, 25)],
-                exit=(173, 220, 74, 80), spawn=(210, 208), npc=(GUILD_MASTER, 'n11', 'guild', (210, 176))),
+                solid=[(120, 120, 65, 37), (26, 120, 30, 47), (340, 120, 30, 47), (60, 190, 43, 31), (270, 170, 62, 54)],
+                exit=(173, 220, 74, 80), spawn=(210, 210), npc=(GUILD_MASTER, 'n11', 'guild', (210, 176))),
 }
 
 # monster berburu yang terlihat di peta Hutan Berburu: (nama, x, y, radius jelajah)
